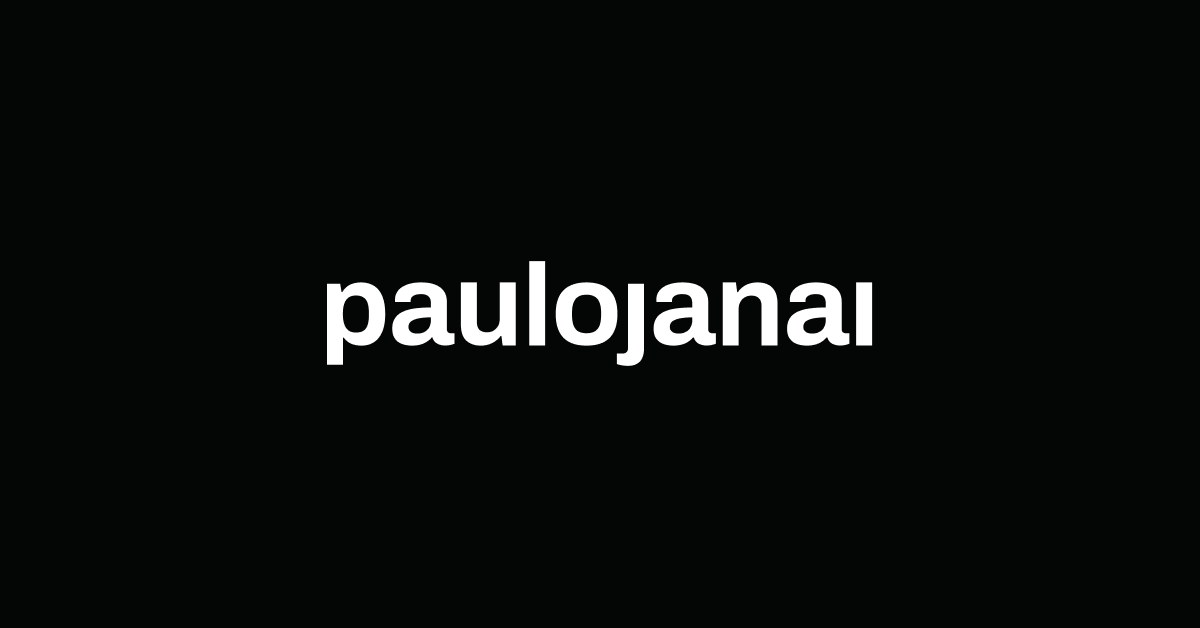
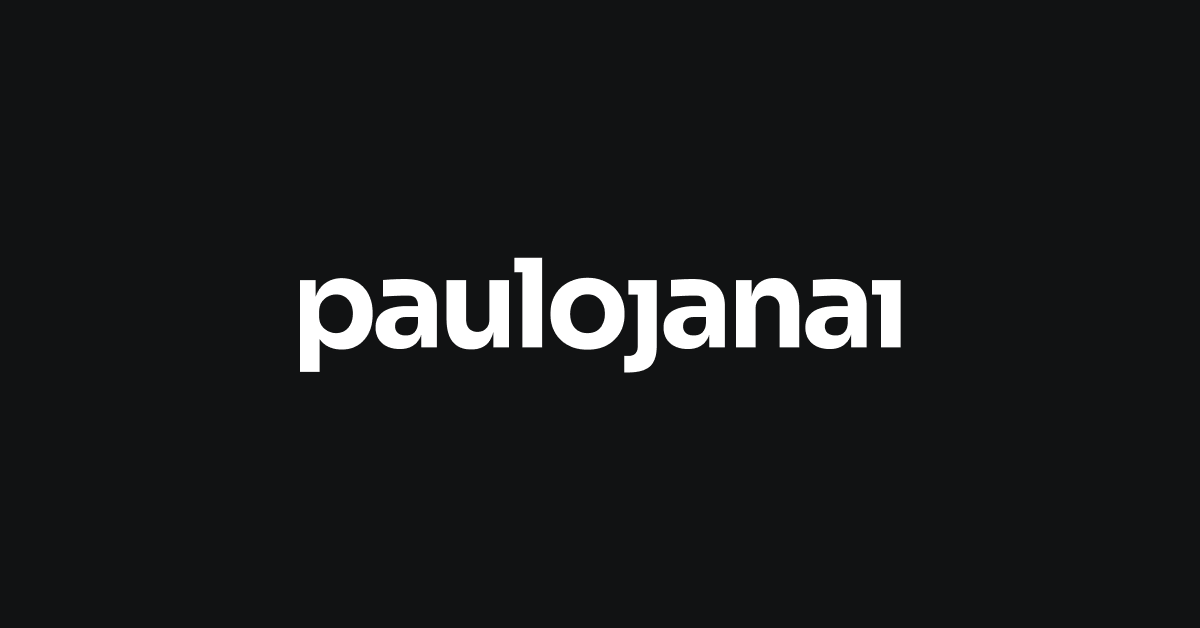
style: new font added

Changed region(s): [[0.2467, 0.3933, 0.7708, 0.6051]]

diff --git a/src/pages/cases/my-report-online.tsx b/src/pages/cases/my-report-online.tsx
@@ -18,6 +18,7 @@ function MyReportOnline() {
   const overviewRef = useNav({ navLinkID: 'section-overview' });
   const deliverablesRef = useNav({ navLinkID: 'section-deliverables' });
   const visualsRef = useNav({ navLinkID: 'section-visuals' });
+  const resultsRef = useNav({ navLinkID: 'section-results' });
 
   return (
     <>
@@ -287,6 +288,70 @@ function MyReportOnline() {
                       id tellus vel tincidunt. Etiam eleifend odio urna, at
                       vulputate dui pretium tincidunt. Fusce fermentum mauris
                       nulla, lacinia scelerisque dui hendrerit at.
+                    </p>
+                  </div>
+                </CaseSectionItem>
+              </div>
+            </section>
+
+            <section
+              ref={resultsRef}
+              className='section-case'
+              id='section-results'
+            >
+              <div className='listview'>
+                <CaseSectionItem title='🚀 Métricas e resultados'>
+                  <div className='text'>
+                    <p className='body-m'>
+                      O processo de tracking foi construído com o time de dados,
+                      PM e o meu auxílio, o que contribuiu para podermos medir o
+                      impacto da iniciativa.
+                    </p>
+                    <p className='body-m'>
+                      <ul>
+                        <li>
+                          - Ao analisar o período de dezembro a março,{' '}
+                          <span className='highlighted-text'>
+                            com a nova funcionalidade observamos um aumento de
+                            96% em 2023 em comparação 2022
+                          </span>
+                        </li>
+                        <li>
+                          - Por outro lado, nos meses em que o Plurall não
+                          registra picos de acesso, houve um aumento de mais de
+                          180 mil cadastros de responsáveis,
+                          <span className='highlighted-text'>
+                            representando um aumento de aproximadamente 33%
+                          </span>{' '}
+                          em relação aos meses com maior acesso.
+                        </li>
+                        <li>
+                          - Outras iniciativas se intensificaram para gerar
+                          ainda mais valor para os novos usuários.
+                        </li>
+                        <li>
+                          - A comunicação via rede social se intensificou para
+                          incentivar ainda mais os responsáveis a se cadastrarem
+                          e se vincularem aos alunos
+                        </li>
+                      </ul>
+                    </p>
+                  </div>
+                </CaseSectionItem>
+
+                <CaseSectionItem title='🧠 Aprendizados'>
+                  <div className='text'>
+                    <p className='body-m'>
+                      Foi enriquecedor entrar em uma equipe que não tinha muita
+                      experiência com design e, mesmo assim, estava aberta a
+                      mudanças. Houve vários momentos de compartilhamento de
+                      conhecimento de design com os Product Managers, o squad e
+                      os stakeholders, na tentativa de transmitir um pouco mais
+                      sobre nosso trabalho e do nosso dia a dia, colaborando com
+                      todos. No final da iniciativa, todos do time estavam
+                      satisfeitos com o trabalho que tínhamos realizado e
+                      expressaram interesse em participar mais vezes dos
+                      processos de design.
                     </p>
                   </div>
                 </CaseSectionItem>

diff --git a/src/components/case/CaseSectionHero.tsx b/src/components/case/CaseSectionHero.tsx
@@ -18,39 +18,15 @@ export const CaseSectionHero = ({ project }: CaseSectionHeroProps) => {
         <div data-aos='fade-up' className='details'>
           <div className='item'>
             <p className='body-xl'>O que eu fiz</p>
-            <ul>
-              {project?.roles?.map((item, index) => {
-                return (
-                  <li key={index} className='body-m'>
-                    {item}
-                  </li>
-                );
-              })}
-            </ul>
+            <p className='body-m'>{project?.roles}</p>
           </div>
           <div className='item'>
             <p className='body-xl'>Produtos</p>
-            <ul>
-              {project?.products?.map((item, index) => {
-                return (
-                  <li key={index} className='body-m'>
-                    {item}
-                  </li>
-                );
-              })}
-            </ul>
+            <p className='body-m'>{project?.products}</p>
           </div>
           <div className='item'>
             <p className='body-xl'>Equipe</p>
-            <ul>
-              {project?.team?.map((item, index) => {
-                return (
-                  <li key={index} className='body-m'>
-                    {item}
-                  </li>
-                );
-              })}
-            </ul>
+            <p className='body-m'>{project?.team}</p>
           </div>
         </div>
 

diff --git a/src/data/cases/casesWork.ts b/src/data/cases/casesWork.ts
@@ -29,9 +29,9 @@ export type ICase = {
   image: string;
   descriptionRoles: string;
   title: string;
-  roles?: string[];
-  products?: string[];
-  team?: string[];
+  roles?: string;
+  products?: string;
+  team?: string;
   href?: string;
   comingSoon: boolean;
 };
@@ -44,9 +44,9 @@ const MyReport : ICase = {
   title:
   'Meu relatório online: Plataforma web para ajudar na inspeção predial',
   // href: "cases/my-report-online",
-  roles: ['UX/UI Designer', 'Visual Design', 'Graphic Design', 'Illustrator'],
-  products: ['Aplicativo', 'WebApp', 'Template PDF'],
-  team: ['Junin, FS Developer e PM','Willamy, Fullstack Developer','(Eu), Product Designer'],  
+  roles: 'UX/UI Designer, Visual Design, Graphic Design, Illustrator',
+  products: 'Aplicativo, WebApp, Template PDF',
+  team: 'Júnior, Willamy Silva e Eu',  
   comingSoon: true,
 };
 
@@ -58,9 +58,9 @@ const EntregouMe: ICase = {
   title:
     'Automação.com: Experiência do aplicativo de pedidos adaptada para a web',
     // href: "cases/entregou-me-web",
-    roles: ['UX/UI Designer', 'Visual Design'],
-  products: ['Website'],
-  team: ['(Eu), Product Designer'],
+    roles: 'UX/UI Designer, Visual Design',
+  products: 'Website',
+  team: 'Eu',
   comingSoon: true
 };
 

diff --git a/src/pages/home.tsx b/src/pages/home.tsx
@@ -99,9 +99,8 @@ function Home() {
                 <Layers size={40} color='white' />
                 <h3>Designer</h3>
                 <p className='body-m'>
-                  Pensando estrategicamente e desenhando interfaces
-                  estruturadas, interações inteligentes e utilizando padrões de
-                  UI
+                  Pensando estrategicamente e desenhando interfaces estruturadas
+                  e interações inteligentes
                 </p>
               </div>
 
@@ -181,7 +180,7 @@ function Home() {
         <GridContainer>
           <div className='text-about'>
             <h2 data-aos='fade-up'>
-              Paulo Janai, Product Designer, Developer, atualmente baseado no
+              Paulo Janai, Product Designer, Developer, atualmente morando no
               Brasil
             </h2>
             <div className='description' data-aos='fade-up'>

diff --git a/src/scss/components/case/_case-section-hero.scss b/src/scss/components/case/_case-section-hero.scss
@@ -16,9 +16,11 @@
     .details {
       margin-top: 8rem;
       @include flex (row, flex-start, space-between);
-      column-gap: 4rem;
+      column-gap: 8rem;
 
       .item {
+        max-width: 37.3rem;
+
         p {
           &.body-xl {
             color: $grayscale-100;
@@ -26,18 +28,16 @@
           }
         }
 
-        ul {
-          li {
-            &.body-m {
-              color: $grayscale-300;
-            }
+        p {
+          &.body-m {
+            color: $grayscale-300;
           }
         }
       }
     }
 
     .thumb-hero {
-      margin-top: 6rem;
+      margin-top: 8rem;
       border-radius: 1.6rem;
       overflow: hidden;
     }

diff --git a/index.html b/index.html
@@ -30,7 +30,9 @@
 
   <link rel="preconnect" href="https://fonts.googleapis.com">
   <link rel="preconnect" href="https://fonts.gstatic.com" crossorigin>
-  <link href="https://api.fontshare.com/v2/css?f[]=cabinet-grotesk@800,500,700&display=swap" rel="stylesheet">
+  <link
+    href="https://fonts.googleapis.com/css2?family=Fraunces:ital,wght@0,500;0,600;0,700;0,800;1,500;1,600;1,700;1,800&display=swap"
+    rel="stylesheet">
   <link href="https://fonts.googleapis.com/css2?family=Sora:wght@300;400;500;600;800&display=swap" rel="stylesheet">
   <link href="https://unpkg.com/aos@2.3.1/dist/aos.css" rel="stylesheet" />
   <link rel="stylesheet" href="./css/main.css" />

diff --git a/src/scss/_reset.scss b/src/scss/_reset.scss
@@ -26,11 +26,6 @@ img {
   display: block;
 }
 
-html,
-body {
-  // overflow-x: hidden;
-}
-
 button {
   background-color: transparent;
   cursor: pointer;
@@ -38,4 +33,14 @@ button {
 
 .border {
   border: 1px solid red;
+}
+
+::-moz-selection {
+  color: $grayscale-50;
+  background: $grayscale-500;
+}
+
+::selection {
+  color: $grayscale-50;
+  background: $grayscale-500;
 }

diff --git a/src/components/case/CaseSectionItem.tsx b/src/components/case/CaseSectionItem.tsx
@@ -6,7 +6,7 @@ type CaseSectionItemProps = {
 export const CaseSectionItem = ({ title, children }: CaseSectionItemProps) => {
   return (
     <div data-aos='fade-up' className='case-section-item'>
-      <h3>{title}</h3>
+      <h2>{title}</h2>
       {children}
     </div>
   );

diff --git a/src/scss/_typography.scss b/src/scss/_typography.scss
@@ -3,13 +3,13 @@ h2,
 h3,
 h4,
 h5 {
-  font-weight: 800;
+  font-weight: 700;
   letter-spacing: 0.1rem;
-  font-family: 'Cabinet Grotesk', sans-serif;
+  font-family: 'Fraunces', serif;
 }
 
 h1 {
-  font-size: 6.4rem;
+  font-size: 7.2rem;
   line-height: 116%;
 
 

diff --git a/src/scss/components/case/_case-section-item.scss b/src/scss/components/case/_case-section-item.scss
@@ -1,6 +1,7 @@
 .case-section-item {
   @include flex (column, flex-start, flex-start);
   gap: 3.2rem;
+  max-width: 80rem;
 
   .text {
     @include flex (column, flex-start, flex-start);

diff --git a/src/scss/components/ui/_navbar-case.scss b/src/scss/components/ui/_navbar-case.scss
@@ -1,6 +1,6 @@
 nav {
   &.navbar-case {
-    max-width: 24.4rem;
+    max-width: 28rem;
     position: -webkit-sticky;
     position: sticky;
     top: 16rem;
